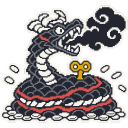
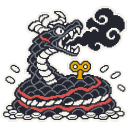
Add the Old Wyrm's base sprite
The regenerated v4: a tall mound of coils that fills the frame at 38 px, where
the first candidates were a flat strip. It joins Wrathful Wyrm's set so the two
share a scale, which re-scales that sprite slightly. No enemy or character is
drawn as an emoji any more.

diff --git a/docs/art/incoming/wyrm-revision-review.html b/docs/art/incoming/wyrm-revision-review.html
@@ -1,0 +1,3 @@
+<!doctype html><html lang="en"><meta charset="utf-8"><meta name="viewport" content="width=device-width,initial-scale=1"><title>Picross · Old Wyrm revision</title><style>
+*{box-sizing:border-box}body{margin:0;background:#f6f3ec;color:#23262f;font:16px/1.5 system-ui,sans-serif}main{max-width:1120px;margin:auto;padding:32px 24px}h1{margin:0 0 8px;font-size:30px}h2{font-size:20px;margin-top:0}p{margin:0 0 14px}.notice{padding:16px;background:white;border-left:4px solid #d9534f;margin:24px 0}.comparison{display:flex;gap:24px;padding:18px;border-radius:8px;margin:12px 0}.tile{display:flex;flex-direction:column;align-items:center;gap:8px;min-width:160px}.tile span{font-size:13px}.cards{display:grid;grid-template-columns:1fr 1fr;gap:20px;margin-top:28px}article{padding:20px;border-radius:12px;border:1px solid #ddd8cf;background:white}.samples{display:grid;grid-template-columns:1fr 1fr;gap:10px}.stage{display:flex;align-items:center;justify-content:center;min-height:224px;padding:12px;border-radius:8px}.paper{background:#f6f3ec}.dark{background:#212329;color:#f6f3ec}.row{display:flex;align-items:center;gap:14px;padding:12px;border-radius:8px;margin-top:10px}.row span{font-size:12px}.meta{font-size:12px;color:#666;margin-top:16px}img{object-fit:contain;image-rendering:pixelated;flex-shrink:0}a{color:#a83633;font-size:13px}@media(max-width:1000px){.cards{grid-template-columns:1fr}.comparison{flex-wrap:wrap}}@media(max-width:520px){.samples{grid-template-columns:1fr}.tile{min-width:120px}.row{gap:10px}}
+</style><main><h1>Old Wyrm · Revised base</h1><p>Two tall, resting base forms using the approved Wrathful v1 and portrait v1 as references.</p><div class="notice">The current prompt keeps gray scale edges as a Wyrm palette exception. Three stacked coils, three bold coral gaps, a large resting head and a large key replace the rejected flat silhouette. Yellow is reserved for the key. Original PNGs are preserved without cleanup. <a href="wyrm-revision-manifest.json">Exact prompts and file checks</a> · <a href="wyrm-revision-notes.md">Notes</a></div><h2>Compare at 38 px</h2><div class="comparison paper"><div class="tile"><span>Rejected base v1</span><img src="enemy-old-wyrm-v1.png" width="38" height="38" alt="enemy-old-wyrm-v1.png"></div><div class="tile"><span>New base v3</span><img src="enemy-old-wyrm-v3.png" width="38" height="38" alt="enemy-old-wyrm-v3.png"></div><div class="tile"><span>New base v4</span><img src="enemy-old-wyrm-v4.png" width="38" height="38" alt="enemy-old-wyrm-v4.png"></div><div class="tile"><span>Approved phase v1</span><img src="enemy-wrathful-wyrm-v1.png" width="38" height="38" alt="enemy-wrathful-wyrm-v1.png"></div></div><div class="comparison dark"><div class="tile"><span>Rejected base v1</span><img src="enemy-old-wyrm-v1.png" width="38" height="38" alt="enemy-old-wyrm-v1.png"></div><div class="tile"><span>New base v3</span><img src="enemy-old-wyrm-v3.png" width="38" height="38" alt="enemy-old-wyrm-v3.png"></div><div class="tile"><span>New base v4</span><img src="enemy-old-wyrm-v4.png" width="38" height="38" alt="enemy-old-wyrm-v4.png"></div><div class="tile"><span>Approved phase v1</span><img src="enemy-wrathful-wyrm-v1.png" width="38" height="38" alt="enemy-wrathful-wyrm-v1.png"></div></div><div class="cards"><article><h2>Candidate v3</h2><div class="samples"><div class="stage paper"><img src="enemy-old-wyrm-v3.png" width="200" height="200" alt="enemy-old-wyrm-v3.png"></div><div class="stage dark"><img src="enemy-old-wyrm-v3.png" width="200" height="200" alt="enemy-old-wyrm-v3.png"></div></div><div class="row paper"><img src="enemy-old-wyrm-v3.png" width="38" height="38" alt="enemy-old-wyrm-v3.png"><span>38 px</span><img src="enemy-old-wyrm-v3.png" width="40" height="40" alt="enemy-old-wyrm-v3.png"><span>40 px</span></div><div class="row dark"><img src="enemy-old-wyrm-v3.png" width="38" height="38" alt="enemy-old-wyrm-v3.png"><span>38 px</span><img src="enemy-old-wyrm-v3.png" width="40" height="40" alt="enemy-old-wyrm-v3.png"><span>40 px</span></div><div class="row dark"><span>Base → approved phase</span><img src="enemy-old-wyrm-v3.png" width="52" height="52" alt="enemy-old-wyrm-v3.png"><img src="enemy-wrathful-wyrm-v1.png" width="52" height="52" alt="enemy-wrathful-wyrm-v1.png"></div><p class="meta">Closer to the revised proportions: a smaller resting head above three thick stacked coils, with three bold coral bands.</p><p class="meta">1254 × 1254 · native transparency retained</p><a href="enemy-old-wyrm-v3.png">enemy-old-wyrm-v3.png</a></article><article><h2>Candidate v4</h2><div class="samples"><div class="stage paper"><img src="enemy-old-wyrm-v4.png" width="200" height="200" alt="enemy-old-wyrm-v4.png"></div><div class="stage dark"><img src="enemy-old-wyrm-v4.png" width="200" height="200" alt="enemy-old-wyrm-v4.png"></div></div><div class="row paper"><img src="enemy-old-wyrm-v4.png" width="38" height="38" alt="enemy-old-wyrm-v4.png"><span>38 px</span><img src="enemy-old-wyrm-v4.png" width="40" height="40" alt="enemy-old-wyrm-v4.png"><span>40 px</span></div><div class="row dark"><img src="enemy-old-wyrm-v4.png" width="38" height="38" alt="enemy-old-wyrm-v4.png"><span>38 px</span><img src="enemy-old-wyrm-v4.png" width="40" height="40" alt="enemy-old-wyrm-v4.png"><span>40 px</span></div><div class="row dark"><span>Base → approved phase</span><img src="enemy-old-wyrm-v4.png" width="52" height="52" alt="enemy-old-wyrm-v4.png"><img src="enemy-wrathful-wyrm-v1.png" width="52" height="52" alt="enemy-wrathful-wyrm-v1.png"></div><p class="meta">Larger head and key than v3; the head remains wider than the requested half-mound proportion. Three coral bands are present after a targeted correction.</p><p class="meta">1254 × 1254 · native transparency retained</p><a href="enemy-old-wyrm-v4.png">enemy-old-wyrm-v4.png</a></article></div></main></html>

diff --git a/scripts/art-clean.py b/scripts/art-clean.py
@@ -167,9 +167,14 @@ ENEMY_SETS = [
     (0.92, {"rusted-sentry": ("enemy-rusted-sentry-v2", [BROWN, CORAL])}),
     (0.92, {"cellar-ooze": ("enemy-cellar-ooze-v1", [GREEN])}),
     (0.92, {"rat-king": ("enemy-rat-king-v1", [GRAY, YELLOW])}),
-    # The base "old-wyrm" joins this set once it's regenerated (see round6-review.md). Gray is
-    # a third accent here, as on the Wyrm's portrait.
-    (1.0, {"wrathful-wyrm": ("enemy-wrathful-wyrm-v1", [CORAL, YELLOW, GRAY])}),
+    # Gray is a third accent here, as on the Wyrm's portrait (see round6-review.md).
+    (
+        1.0,
+        {
+            "old-wyrm": ("enemy-old-wyrm-v4", [CORAL, YELLOW, GRAY]),
+            "wrathful-wyrm": ("enemy-wrathful-wyrm-v1", [CORAL, YELLOW, GRAY]),
+        },
+    ),
     (0.92, {"spark-hound": ("enemy-spark-hound-v2", [YELLOW])}),
     (0.92, {"failed-clone": ("enemy-failed-clone-v1", [PURPLE, GRAY])}),
     (0.92, {"reviewer-two": ("enemy-reviewer-two-v2", [CORAL])}),

diff --git a/docs/art/incoming/round6-review.md b/docs/art/incoming/round6-review.md
@@ -57,6 +57,14 @@ Two separate problems, and both trace back to the prompt asking for a graphite d
 The base prompt in `09-enemies-chapters-7-9.md` is rewritten as a tall mound of coils, using
 Wrathful v1 as the reference. Regenerate it as `enemy-old-wyrm-v3.png` and `-v4.png`.
 
+### The regenerated base
+
+The rewrite fixed it. Both candidates now fill the frame at about 38×37 px. **v4 is the pick.** Its
+bigger head, eye and horns still read as a dragon at 38 px, its key is about 9×9 px, and its face
+matches the portrait. v3 is closer to the prompt's proportions, but its small head turns it into
+a striped beehive at that size, with a key of about 6×8 px. Both needed a correction pass to get
+the third coral gap (see `wyrm-revision-manifest.json`).
+
 ## Calls worth a second look
 
 - **Ostrander's pen is upright** in both sets, not held out like a lance as briefed. She stays
@@ -98,20 +106,18 @@ None of these block the batch. Recheck them in the game once they're wired in.
 - **Enemies:** signal-box v2, ticket-inspector v1, coal-heap v1, rusted-sentry v2, cellar-ooze
   v1, rat-king v1, spark-hound v2, failed-clone v1, reviewer-two v2.
 - **Enemy phase sets:** the-1159 and express-not-stopping v1; ostrander and reviewer-one v1;
-  wrathful-wyrm v1, with old-wyrm to come from the regenerated candidates.
+  old-wyrm v4 and wrathful-wyrm v1.
 
 ## Cleanup results
 
-Done, by `scripts/art-clean.py`. The 19 picks are in `public/art/` and wired into the game, and
-the rerun left every existing image byte-for-byte unchanged.
+Done, by `scripts/art-clean.py`. All 20 picks are in `public/art/` and wired into the game, so no
+enemy or character is drawn as an emoji any more. The reruns left every earlier image
+byte-for-byte unchanged.
 
-- **The Wyrm keeps gray.** Its portrait and Wrathful Wyrm are cleaned with gray as a third
-  accent, and both read as a dragon in the game.
-- **The Old Wyrm's base is still 🐉.** It's the only emoji left among the enemies and cast, and
-  the Wyrm's phases before 40% HP show it too. When the regenerated pick is in, add it to the
-  `wrathful-wyrm` set in the script so the two share a scale, then set its `sprite`.
-- **Seen in the game.** All 14 new sprites in the battle bar and all 5 portraits in the dialogue
-  circle, on the dark theme. The 3 phase forms were seen by starting a saved fight at that
-  phase. Light theme and the 52 px sign-off weren't checked in the game.
+- **The Wyrm keeps gray.** Its portrait and both sprites are cleaned with gray as a third accent,
+  and all three read as a dragon in the game.
+- **Seen in the game.** All 15 new sprites in the battle bar and all 5 portraits in the dialogue
+  circle, on the dark theme. The 3 phase forms and Waking Wyrm were seen by starting a saved fight
+  at that phase. Light theme and the 52 px sign-off weren't checked in the game.
 - **Playthroughs pass.** The whole of the Night Mail, the Undercroft and the Annex, on the
-  production build, with no page errors.
+  production build, with no page errors. Only the Undercroft was rerun with the final Wyrm.

diff --git a/docs/art/incoming/wyrm-revision-notes.md b/docs/art/incoming/wyrm-revision-notes.md
@@ -1,0 +1,9 @@
+# Old Wyrm base revision
+
+Delivered `enemy-old-wyrm-v3.png` and `enemy-old-wyrm-v4.png` from the revised base prompt in `09-enemies-chapters-7-9.md`, with `enemy-wrathful-wyrm-v1.png` and `cast-wyrm-v1.png` as references. The revision follows the current document's gray scale-edge exception. It does not take the alternative paper-edge direction mentioned in the earlier screenshot.
+
+The base is now a tall mound of three thick stacked coils, with a substantial resting head, a half-open eye, three coral coil gaps and a head-height yellow key. The paper coin heap remains at its base. The portrait and approved Wrathful form are unchanged. V3 is the closer match to the revised head-to-body proportions; v4 keeps a larger head and key. Both initial generations omitted the third coral gap, so each received a targeted image_gen correction; v3 also received the smaller-head correction. Exact correction prompts are in the manifest.
+
+Open `wyrm-revision-review.html` to compare the rejected base, both revisions and the approved phase at 38 px on paper and dark surfaces. The manifest includes the exact submitted prompts, references, original source paths and PNG inspection data. Generated stepped grids are retained; the requested 32×32 grid is not asserted as a measured result.
+
+Built-in image_gen was used. Native generated PNG resolution and alpha are retained. Palette cleanup, trimming, resizing and installation remain with the project owner. All existing incoming files are preserved.

diff --git a/docs/art/prompts/README.md b/docs/art/prompts/README.md
@@ -8,8 +8,7 @@ copy one fenced block into the image generator as-is.
 
 1. Work through the files in order. Tier 1 is what the game needs; tiers 2 and 3 are
    small glyphs that can wait; tier 4 has no slot in the UI yet. Files 01 to 04, 06 and 07
-   are done and in the game, and so are 08 and 09 apart from the Old Wyrm's base sprite, which
-   is waiting on a regenerated candidate. The banners in 05 are still deferred.
+   are done and in the game, and so are 08 and 09. The banners in 05 are still deferred.
    - [01-cast.md](01-cast.md): portraits for the dialogue scenes (tier 1)
    - [02-enemies.md](02-enemies.md): fight sprites, including boss phase forms (tier 1)
    - [03-gadgets.md](03-gadgets.md): the three gadget icons (tier 1)
